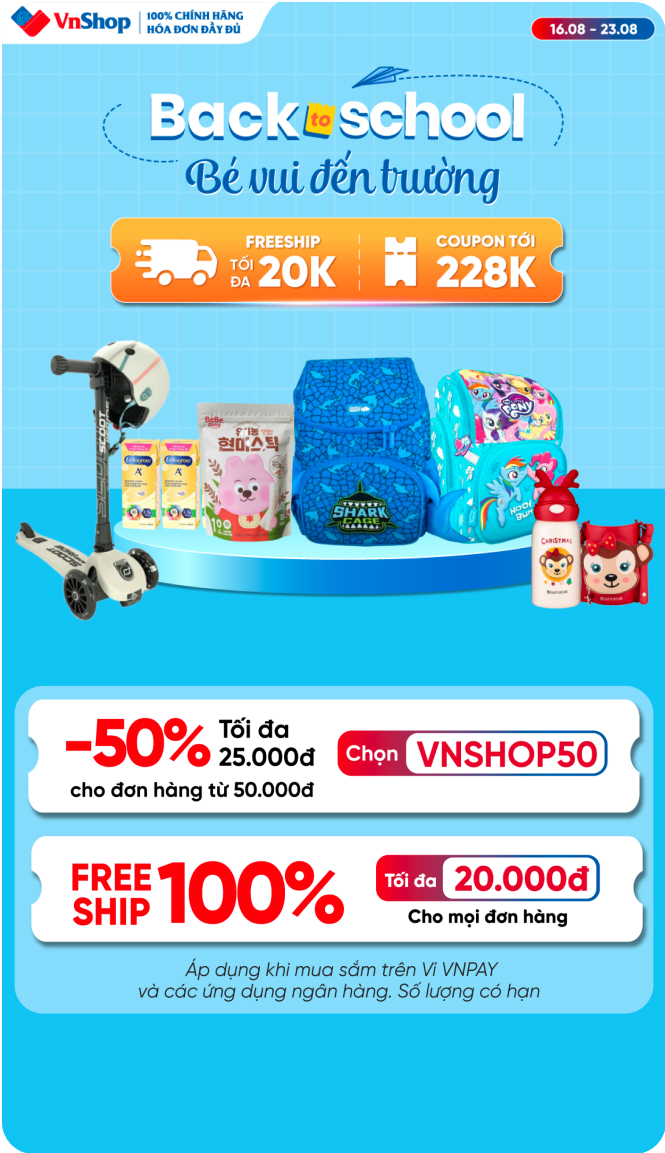
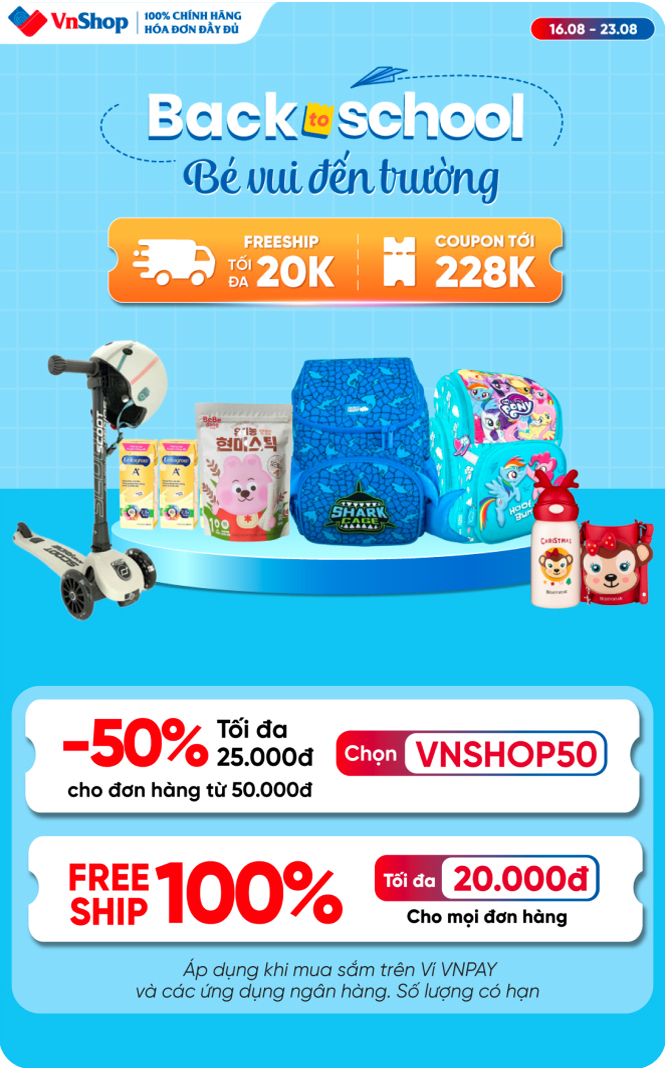
update banner_vertical
update banner_vertical

diff --git a/css/general.css b/css/general.css
@@ -1819,17 +1819,36 @@ a {
 /*slide end*/
 /*masonry*/
 .masonry.list-mb-12 > *:not(:last-child) {
-  margin-bottom: 0;
+  margin-bottom: 12px;
 }
+.masonry {
+  display: grid;
+  margin-left: -6px;
+  margin-right: -6px;
+  grid-template-columns: repeat(2, 1fr);
+  grid-template-rows: repeat(2, 1fr);
+}
+.masonry>* {
+  padding-left: 6px;
+  padding-right: 6px;
+}
+/*
 .masonry {
   display: grid;
   grid-gap: 12px;
   grid-template-columns: repeat(auto-fit, minmax(160px, 1fr));
   grid-auto-rows: 285px;
   grid-auto-flow: dense;
+}*/
+.banner_vertical {
+  border-radius: var(--border-radius); overflow: hidden;display: block;
 }
 .banner_vertical {
-  border-radius: var(--border-radius); overflow: hidden; max-height: 285px;
+  height: 100%;
+  background-position: center top;
+  background-size: cover;
+  display: block;
+  background-repeat: no-repeat;
 }
 /*.masonry {
   columns: 160px;
@@ -1840,7 +1859,15 @@ a {
   columns: auto;
 }
 
-.masonry > div {
+/*.masonry > div {
+  -ms-flex: 0 0 50%;
+  flex: 0 0 50%;
+  max-width: 50%;
+  vertical-align: top;
+  padding-left: 6px;
+  padding-right: 6px;
+}*/
+/*.masonry > div {
   break-inside: avoid;
   display: flex;
   justify-content: center;
@@ -1849,7 +1876,7 @@ a {
   user-select: none;
   position: relative;
   overflow: hidden;
-}
+}*/
 .masonry .product-title, .product-title-normal.product-title {
   white-space: initial;
   height: 34px;
@@ -3364,7 +3391,7 @@ a.close {display: flex;}
   border-bottom-width: 2px;border-top: 1px solid transparent;
 }
 .category-menu :checked + .tabbar--top-border__button {
-  border-top-color: var(--border-color);
+  border-top-color: var(--border-color); background-color: var(--color-white);
 }
 .layout-right .main {
   padding-left: 0;

diff --git a/index.html b/index.html
@@ -1024,9 +1024,8 @@
                   </a>
                 </div>
                 <div class="masonry-item">
-                  <a href="javascript:;" class="banner_vertical">
+                  <a href="javascript:;" class="banner_vertical" style="background-image: url(demo/banner_doc.jpg);">
                     <div class="product-img">
-                      <img src="demo/banner_doc.jpg" />
                     </div>
                   </a>
                 </div>
@@ -1253,9 +1252,8 @@
                   </a>
                 </div>
                 <div class="masonry-item">
-                  <a href="javascript:;" class="banner_vertical">
+                  <a href="javascript:;" class="banner_vertical" style="background-image: url(demo/banner_doc.jpg);">
                     <div class="product-img">
-                      <img src="demo/banner_doc.jpg" />
                     </div>
                   </a>
                 </div>

diff --git a/popup.html b/popup.html
@@ -1024,9 +1024,8 @@
                   </a>
                 </div>
                 <div class="masonry-item">
-                  <a href="javascript:;" class="banner_vertical">
+                  <a href="javascript:;" class="banner_vertical" style="background-image: url(demo/banner_doc.jpg);">
                     <div class="product-img">
-                      <img src="demo/banner_doc.jpg" />
                     </div>
                   </a>
                 </div>
@@ -1253,9 +1252,8 @@
                   </a>
                 </div>
                 <div class="masonry-item">
-                  <a href="javascript:;" class="banner_vertical">
+                  <a href="javascript:;" class="banner_vertical" style="background-image: url(demo/banner_doc.jpg);">
                     <div class="product-img">
-                      <img src="demo/banner_doc.jpg" />
                     </div>
                   </a>
                 </div>
